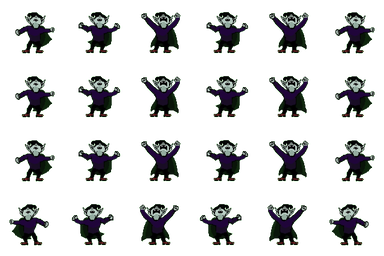
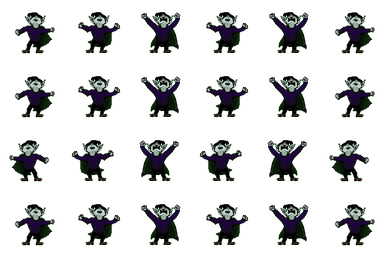
Face the Count the way he is running, and flip his sides
Three fixes to the new Count, all from playtesting.

His side art is drawn facing RIGHT — nose, fangs and chin point right and
the cape trails left behind him — and I had built the sheets assuming left.
That is the classic silent sprite bug: it looks fine standing still and is
only obvious once you hold D and watch him run away from the direction he
faces. Every left/right row in the idle, run and attack sheets is swapped.
Death is untouched: he lies head-left, which is already the left row.

The drawn direction was also being taken from the mouse. GameScene calls
aimAt every frame with the cursor and aimAt was setting `facing`, so the
run and idle animations followed the pointer and ignored which key was
held — cursor to the right meant he faced right while walking left. Aim
and facing are now separate things: movement owns the drawn direction,
the cursor owns where a strike goes, and the two meet only in
playAttackAnim, where he turns into the swing. Releasing the keys keeps
the last direction travelled instead of snapping to the pointer.

The idle was one drawing plus a one-pixel bob, which read as floating
rather than standing. It is two real poses now: the standing drawing and
move-4, the calmest frame of the run, whose silhouette sits within a
couple of pixels of it. The back view has nothing to pair with, so it
shifts against its own mirror.

Romi's sources for the Count are now in public/assets/RAW/count, so the
[…]

diff --git a/src/entities/Player.ts b/src/entities/Player.ts
@@ -78,11 +78,20 @@ export class Player extends Phaser.Physics.Arcade.Sprite {
     return 1 - remaining / DASH.cooldownMs;
   }
 
-  /** moveX/moveY is a normalized direction from InputController. */
+  /**
+   * moveX/moveY is a normalized direction from InputController.
+   *
+   * Movement is what decides which way he is DRAWN. The cursor decides where a
+   * strike goes and nothing else — see aimAt. Hold D and he runs right even
+   * with the mouse off to the left, and when he stops he keeps facing the way
+   * he was last travelling instead of snapping around to the pointer.
+   */
   move(moveX: number, moveY: number): void {
     if (this.isDashing) return; // the dash owns the velocity until it ends
     this.setVelocity(moveX * PLAYER.moveSpeed, moveY * PLAYER.moveSpeed);
-    this.updateAnimation(moveX !== 0 || moveY !== 0);
+    const moving = moveX !== 0 || moveY !== 0;
+    if (moving) this.facing = angleToDir4(Math.atan2(moveY, moveX));
+    this.updateAnimation(moving);
   }
 
   /**
@@ -222,16 +231,15 @@ export class Player extends Phaser.Physics.Arcade.Sprite {
   }
 
   /**
-   * Note this deliberately does NOT re-mirror the bat: GameScene aims at the
-   * cursor every frame, which would otherwise spin the bat around to face the
-   * pointer mid-dash instead of the way he is actually hurtling. In bat form
-   * the mirror belongs to the dash direction (setBatForm) or the coffin
-   * flight (faceBatTowards); `facing` here only decides which vampire row he
-   * lands back on.
+   * Where a strike would go. GameScene calls this every frame with the cursor,
+   * so it deliberately does NOT touch `facing`: the pointer used to drive the
+   * drawn direction as a side effect, which meant the Count ran and stood
+   * facing wherever the mouse happened to be, no matter which key was held.
+   * Movement owns the drawn direction (see move); the aim only becomes a
+   * facing at the moment he actually swings (see playAttackAnim).
    */
   aimAt(worldX: number, worldY: number): void {
     this.aimAngle = Phaser.Math.Angle.Between(this.x, this.y, worldX, worldY);
-    this.facing = angleToDir4(this.aimAngle);
   }
 
   /**
@@ -251,6 +259,9 @@ export class Player extends Phaser.Physics.Arcade.Sprite {
   playAttackAnim(): void {
     if (this.batForm) return;
 
+    // The one moment the cursor decides which way he is drawn: he turns into
+    // the strike. Everywhere else the drawn direction belongs to movement.
+    this.facing = angleToDir4(this.aimAngle);
     this.spawnCastFlare();
     this.attackAnimUntil = this.scene.time.now + VAMPIRE_ATTACK_DURATION_MS;
     // Held input can fire again before the previous animation finishes.

diff --git a/tools/build_count_sheets.py b/tools/build_count_sheets.py
@@ -8,11 +8,15 @@ The pack it replaces had six sheets of 4x12 frames. So most of the work here is
 deciding what stands in for what — the mapping is spelled out in FRAMES below,
 and the honest summary is:
 
-  * Facing RIGHT is facing LEFT mirrored, everywhere. Romi drew the side view
-    once, facing left, exactly like the bat.
-  * Idle is one drawing plus the same drawing a pixel lower. That one pixel is
-    the whole difference between a character standing still and a character
-    frozen, and it changes none of her paint.
+  * Facing LEFT is facing RIGHT mirrored, everywhere. Romi drew the side view
+    once, facing RIGHT — nose, fangs and chin point right and the cape trails
+    left behind him — exactly like the bat. Getting this backwards is the
+    classic silent sprite bug: it looks fine standing still and is only obvious
+    once you hold D and watch him run away from the direction he is facing.
+  * Idle is two real drawings: the standing pose, and the calmest frame of the
+    run cycle (move-4, whose silhouette is within a couple of pixels of the
+    standing pose). It reads as a weight shift rather than as a float, which is
+    all a two-frame idle has to do.
   * Running toward the camera alternates the front pose with a run frame, and
     then does it again with that run frame mirrored, so his legs swap. Running
     away is the back pose alternating with its own mirror, for the same reason.
@@ -65,9 +69,6 @@ CROP_SIZE = FRAME_SIZE * SCALE  # 320
 # placed on the centre of everything he is ever drawn doing.
 CROP_LEFT = -43
 CROP_TOP = -40
-# How far the idle's second frame sinks, in SOURCE pixels — exactly one pixel
-# of the finished frame. Any more reads as a bounce, not a breath.
-BOB = SCALE
 
 DEATH = "count-dawn-death-animation"
 
@@ -79,11 +80,13 @@ Frame = tuple[str, bool] | None
 
 FRAMES: dict[str, dict[str, list[Frame]]] = {
     "idle": {
-        # The pair is one drawing twice; the second is sunk by BOB at crop time.
-        "down": [("count-dawn-down-1", False), ("count-dawn-down-1", False)],
-        "up": [("count-dawn-up-1", False), ("count-dawn-up-1", False)],
-        "left": [("count-dawn-side-1", False), ("count-dawn-side-1", False)],
-        "right": [("count-dawn-side-1", True), ("count-dawn-side-1", True)],
+        # Standing pose, then the run's calmest frame — a shift of weight. Only
+        # the back view has nothing to pair with, so it shifts against its own
+        # mirror instead.
+        "down": [("count-dawn-down-1", False), ("count-dawn-move-4", False)],
+        "up": [("count-dawn-up-1", False), ("count-dawn-up-1", True)],
+        "left": [("count-dawn-side-1", True), ("count-dawn-move-4", True)],
+        "right": [("count-dawn-side-1", False), ("count-dawn-move-4", False)],
     },
     "run": {
         "down": [
@@ -105,14 +108,17 @@ FRAMES: dict[str, dict[str, list[Frame]]] = {
             None,
             None,
         ],
-        "left": [(f"count-dawn-move-{i}", False) for i in range(1, 7)],
-        "right": [(f"count-dawn-move-{i}", True) for i in range(1, 7)],
+        # Drawn running right, so LEFT is the mirrored row.
+        "left": [(f"count-dawn-move-{i}", True) for i in range(1, 7)],
+        "right": [(f"count-dawn-move-{i}", False) for i in range(1, 7)],
     },
     "attack": {
+        # Front-on poses, so the mirror only decides which way the cape flares.
+        # Kept on the same rule as the run so the two never disagree.
         "down": [("count-dawn-attack-" + n, False) for n in "123231"],
         "up": [("count-dawn-attack-" + n, False) for n in "123231"],
-        "left": [("count-dawn-attack-" + n, False) for n in "123231"],
-        "right": [("count-dawn-attack-" + n, True) for n in "123231"],
+        "left": [("count-dawn-attack-" + n, True) for n in "123231"],
+        "right": [("count-dawn-attack-" + n, False) for n in "123231"],
     },
     "death": {
         # 0-2 the fall, 3-4 burning, 5-6 ash. The game plays 0-2 for a death by
@@ -185,10 +191,8 @@ def downscale(img: Image.Image, size: int) -> Image.Image:
     return Image.fromarray((np.dstack([np.clip(rgb, 0, 1), alpha]) * 255).astype(np.uint8), "RGBA")
 
 
-def build_frame(source: Image.Image, mirror: bool, sink: int) -> Image.Image:
-    cropped = source.crop(
-        (CROP_LEFT, CROP_TOP - sink, CROP_LEFT + CROP_SIZE, CROP_TOP - sink + CROP_SIZE)
-    )
+def build_frame(source: Image.Image, mirror: bool) -> Image.Image:
+    cropped = source.crop((CROP_LEFT, CROP_TOP, CROP_LEFT + CROP_SIZE, CROP_TOP + CROP_SIZE))
     frame = downscale(cropped, FRAME_SIZE)
     return frame.transpose(Image.FLIP_LEFT_RIGHT) if mirror else frame
 
@@ -212,10 +216,7 @@ def main() -> None:
                 if spec is None:
                     continue
                 stem, mirror = spec
-                # Only the idle's second frame breathes; every other pair of
-                # identical entries is a real repeat, not a bob.
-                sink = BOB if action == "idle" and column == 1 else 0
-                sheet.paste(build_frame(source(stem), mirror, sink), (column * FRAME_SIZE, row * FRAME_SIZE))
+                sheet.paste(build_frame(source(stem), mirror), (column * FRAME_SIZE, row * FRAME_SIZE))
 
         out = OUT_DIR / OUT_NAMES[action]
         sheet.save(out)

diff --git a/README.md b/README.md
@@ -21,7 +21,8 @@ The complete core loop is playable end to end:
 - ✅ Hunters drop +1 bloodlets that fly to the blood bar on pickup (red burst on arrival); hunters stop and swing their swords in melee range
 - ✅ Mobile support: red virtual joystick, ⚔ auto-strike-nearest button (Space on desktop), tap-to-strike toward the tap, rotate-to-landscape gate, device-aware menus
 - ✅ Sunrise countdown (60s for fast playtests) — big timer framed in the center window, tick pops, growing tremble, red panic mode + vignette + camera shakes in the last 10s
-- ✅ **The Count is Romi's own drawing** — a hand-painted vampire in place of the bought pack, in all four directions: a breathing idle, a six-frame run, a rear-up-and-roar attack throwing a burst of magic down his aim, and two different deaths. A hunter's kill drops him where he stands; the sunrise catches fire, flickers through Romi's burning frames and leaves him as smoking ash before the screen changes
+- ✅ **The Count is Romi's own drawing** — a hand-painted vampire in place of the bought pack, in all four directions: a two-pose idle that shifts his weight, a six-frame run, a rear-up-and-roar attack throwing a burst of magic down his aim, and two different deaths. A hunter's kill drops him where he stands; the sunrise catches fire, flickers through Romi's burning frames and leaves him as smoking ash before the screen changes
+- ✅ Movement decides which way he is drawn; the cursor only decides where a strike goes. Hold D and he runs right with the mouse anywhere, and when he stops he keeps the direction he was travelling instead of snapping to the pointer — he turns into the aim at the moment he swings, and only then
 - ✅ Sword-hunter enemies with death animations, all four directions
 - ✅ Hunters spawn at arena edges and chase the vampire; every new night raises the blood target, increases the alive cap, and accelerates spawning
 - ✅ Mouse-aimed melee arc attack with cooldown pip, hit flash and knockback — landed strikes shove the target back, flinch it, and cancel the swing it was winding up (the Captain resists most of it)

diff --git a/public/assets/RAW/README.md b/public/assets/RAW/README.md
@@ -1,0 +1,23 @@
+# RAW source art
+
+Romi's original drawings, exactly as she delivered them — the inputs the
+`tools/build_*.py` scripts turn into the spritesheets the game actually loads.
+
+**Nothing in here is loaded at runtime.** It ships with the build because it is
+small (a few hundred KB all in) and because a hand-drawn game should carry its
+own sources: if a sheet ever needs rebuilding, retiming, recropping or
+re-keying, the material is right here rather than in somebody's Downloads
+folder.
+
+| Folder | Built by | Into |
+| ------ | -------- | ---- |
+| `count/` | `tools/build_count_sheets.py` | `characters/vampire/vampire_{idle,run,attack,death}.png` |
+
+Each script takes the folder as its only argument, e.g.:
+
+```bash
+python tools/build_count_sheets.py public/assets/RAW/count
+```
+
+The scripts are idempotent — running one again over the same sources rewrites
+the identical sheet.
